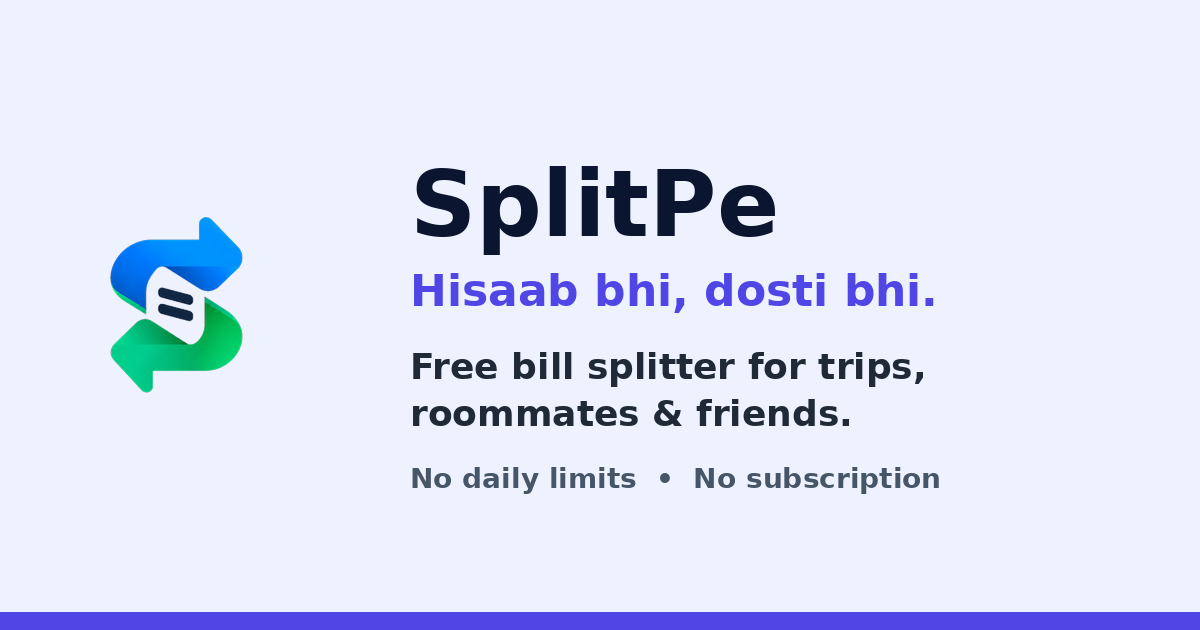
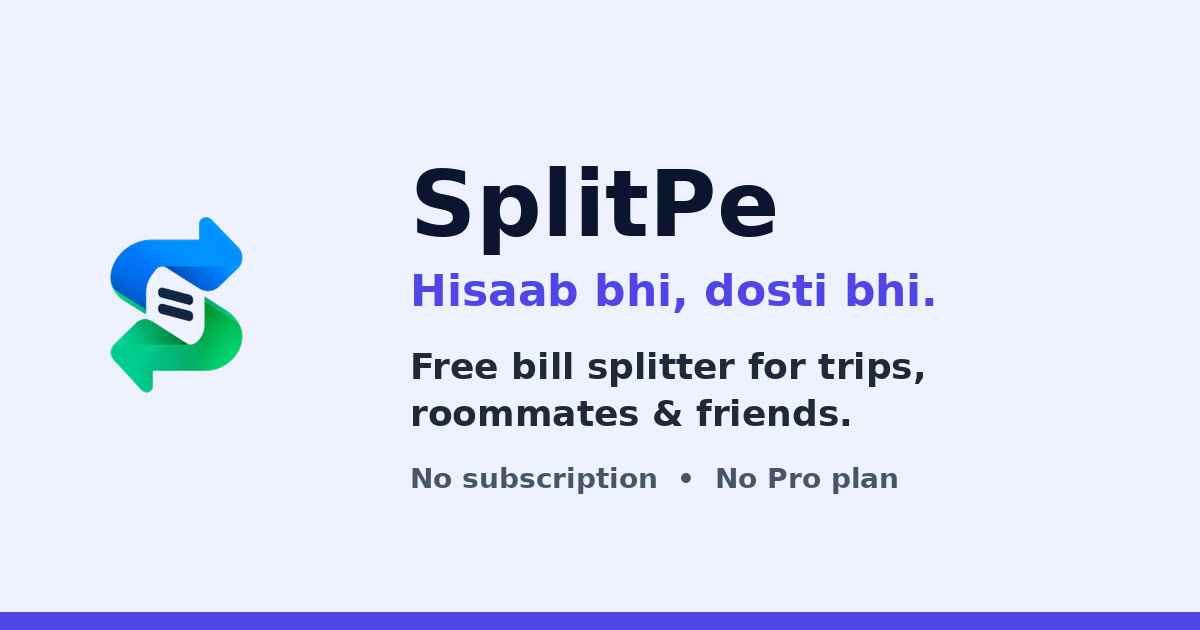
Replace inaccurate 'no daily limits' claim with 'no subscription'

Changed region(s): [[0.37, 0.7238, 0.8017, 0.7841]]

diff --git a/index.html b/index.html
@@ -4,14 +4,14 @@
     <meta charset="UTF-8" />
     <link rel="icon" type="image/png" href="/favicon.png" />
     <meta name="viewport" content="width=device-width, initial-scale=1.0" />
-    <title>SplitPe – Free Bill Splitting App for Trips & Roommates | No Daily Limits</title>
-    <meta name="description" content="SplitPe is a 100% free expense splitting app. Split bills with friends, roommates and travel groups. Unlimited expenses, multi-currency, settle up via UPI. Hisaab bhi, dosti bhi." />
+    <title>SplitPe – Free Bill Splitting App for Trips & Roommates | No Subscription</title>
+    <meta name="description" content="SplitPe is a free expense splitting app. Split bills with friends, roommates and travel groups. No subscription or Pro plan, multi-currency, settle up via UPI. Hisaab bhi, dosti bhi." />
     <link rel="canonical" href="https://www.splitpe.xyz/" />
     <meta name="theme-color" content="#4F46E5" />
     <meta property="og:type" content="website" />
     <meta property="og:site_name" content="SplitPe" />
     <meta property="og:title" content="SplitPe – Free Bill Splitting App | Hisaab bhi, dosti bhi" />
-    <meta property="og:description" content="Split trip, flat and party expenses with friends. Unlimited, no daily limits, no subscription." />
+    <meta property="og:description" content="Split trip, flat and party expenses with friends. Free, no subscription, no Pro plan." />
     <meta property="og:url" content="https://www.splitpe.xyz/" />
     <meta property="og:image" content="https://www.splitpe.xyz/og-image.png" />
     <meta property="og:image:width" content="1200" />
@@ -19,7 +19,7 @@
     <meta property="og:locale" content="en_IN" />
     <meta name="twitter:card" content="summary_large_image" />
     <meta name="twitter:title" content="SplitPe – Free Bill Splitting App" />
-    <meta name="twitter:description" content="Split bills with friends, roommates and travel groups. Unlimited and free." />
+    <meta name="twitter:description" content="Split bills with friends, roommates and travel groups. Free, no subscription." />
     <meta name="twitter:image" content="https://www.splitpe.xyz/og-image.png" />
     <script type="application/ld+json">
     {
@@ -40,7 +40,7 @@
           "operatingSystem": "ANDROID",
           "applicationCategory": "FinanceApplication",
           "url": "https://play.google.com/store/apps/details?id=com.raotechnologies.splitpe",
-          "description": "Free expense splitting app for trips, roommates, friends and families. Unlimited expenses, multi-currency, settle up via UPI.",
+          "description": "Free expense splitting app for trips, roommates, friends and families. No subscription, multi-currency, settle up via UPI.",
           "offers": { "@type": "Offer", "price": "0", "priceCurrency": "INR" },
           "publisher": { "@id": "https://www.splitpe.xyz/#org" }
         }
